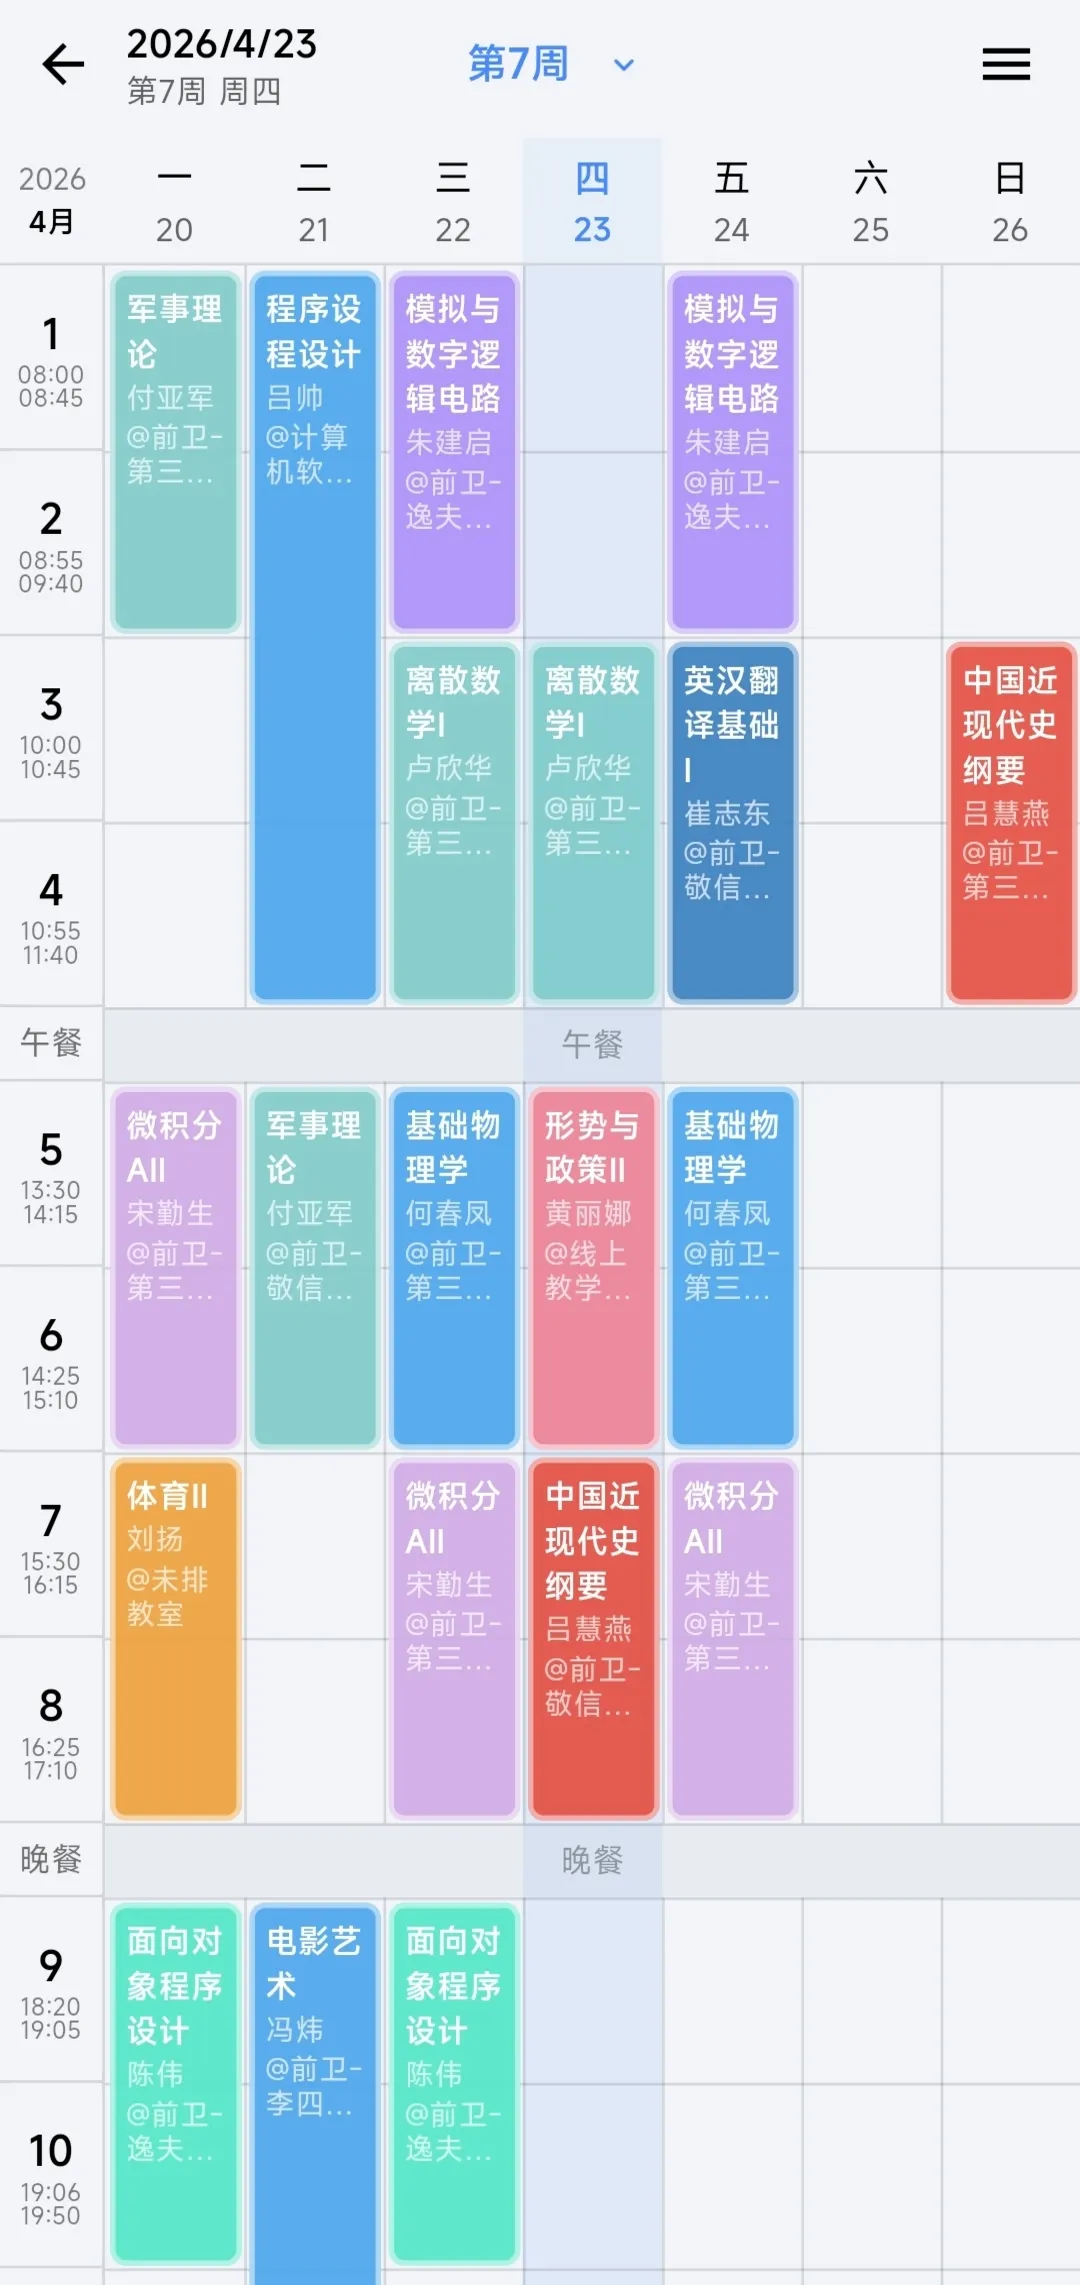
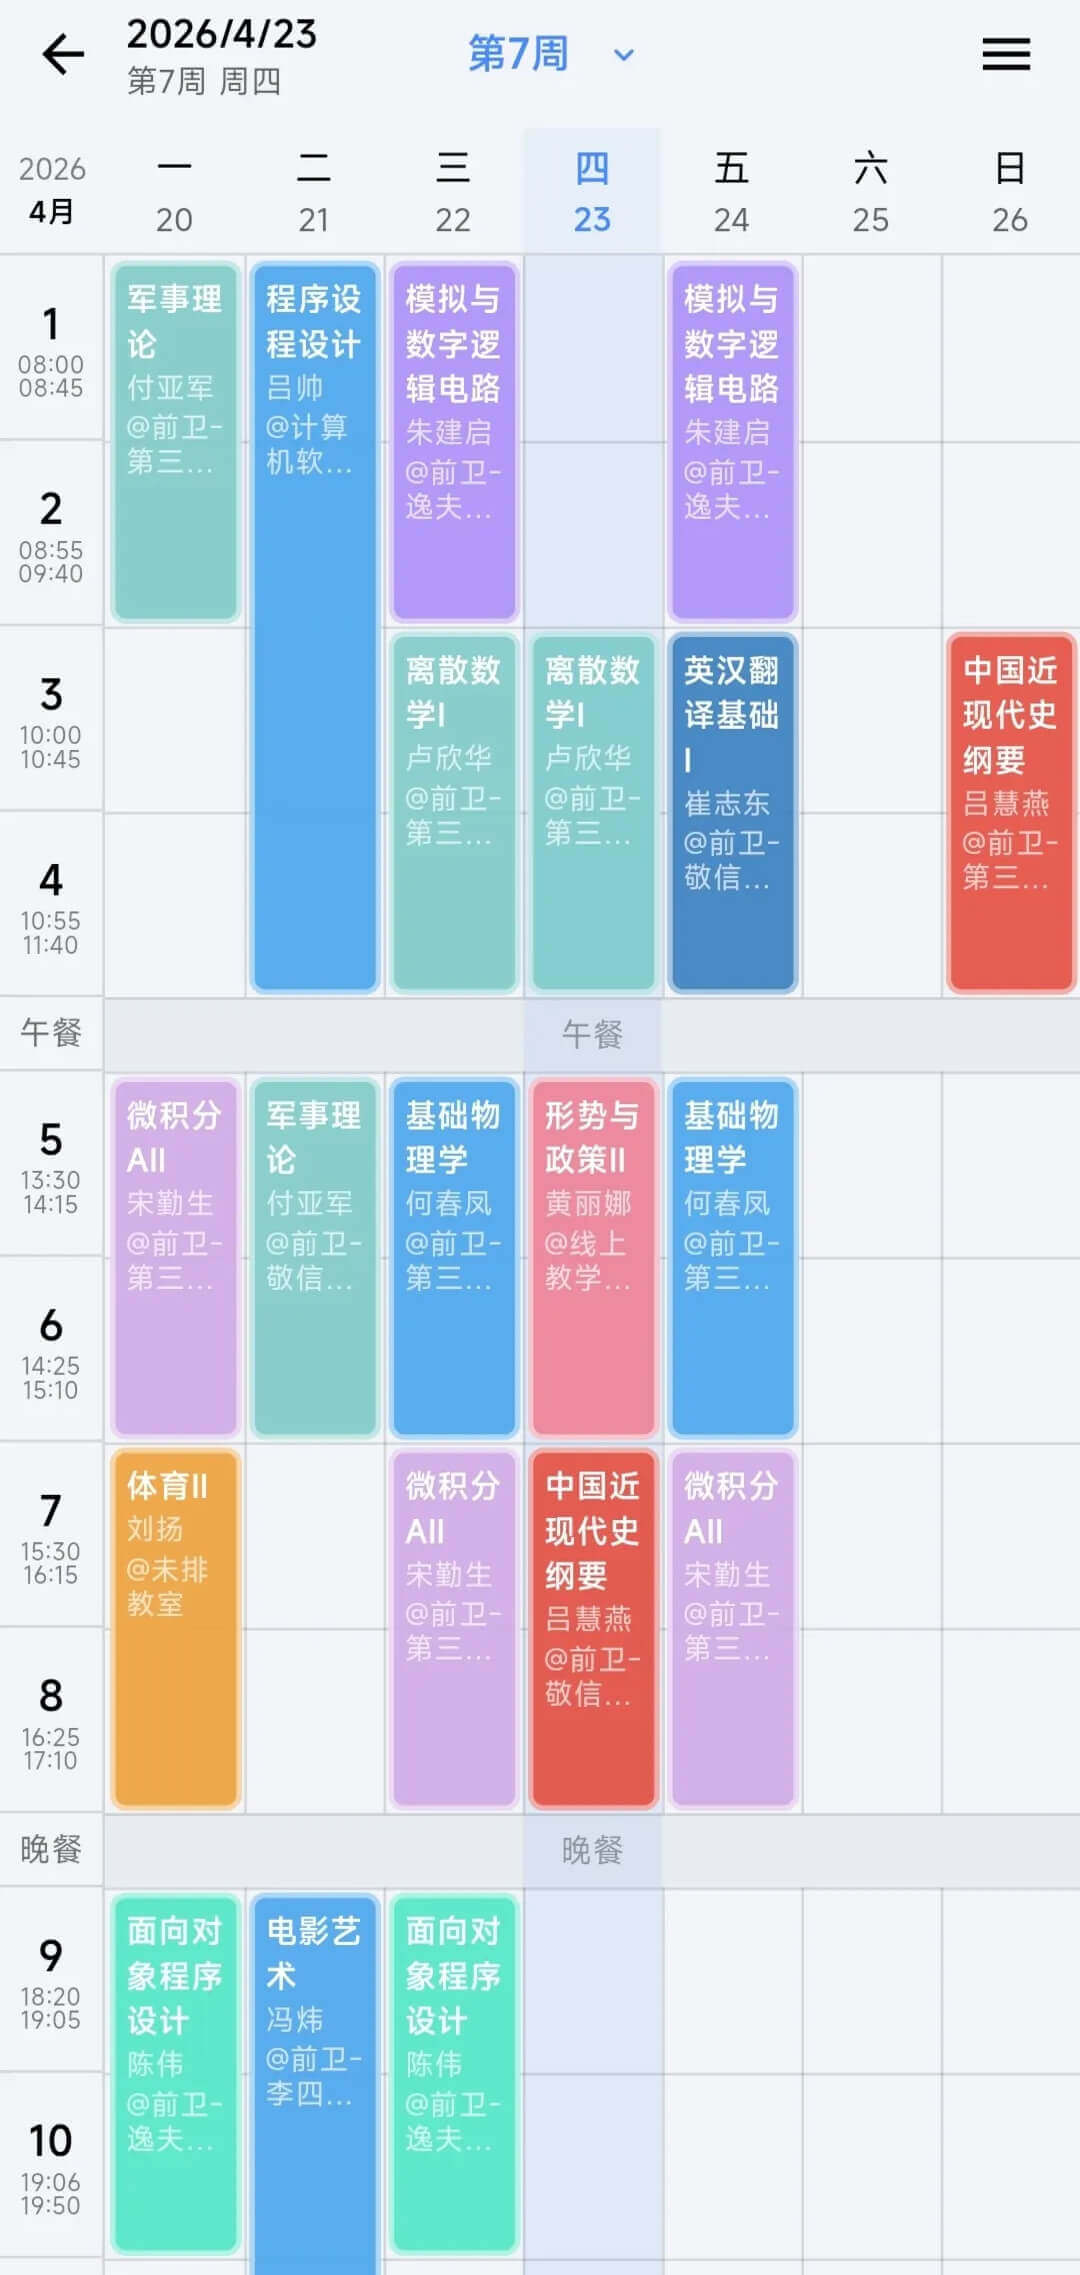
chore

diff --git a/README.md b/README.md
@@ -32,7 +32,7 @@ npm run preview    # 预览构建产物
 
 ### 硬性要求
 
-- **尺寸**：宽 1080 px，高不超过 2285 px（参考 Google Play 1080×1920 起，竖屏 9:19.5 比例内即可，不要超过 2285），**每张图片的尺寸必须一致**
+- **尺寸**：宽 1080 px，高不超过 2275 px（参考 Google Play 1080×1920 起，竖屏 9:19.5 比例内即可，不要超过 2275），**每张图片的尺寸必须一致**
 - **格式**：WebP，质量 75–80
 - **体积**：单张最好 < 150 KB
 - **内容必须完整可见**：
